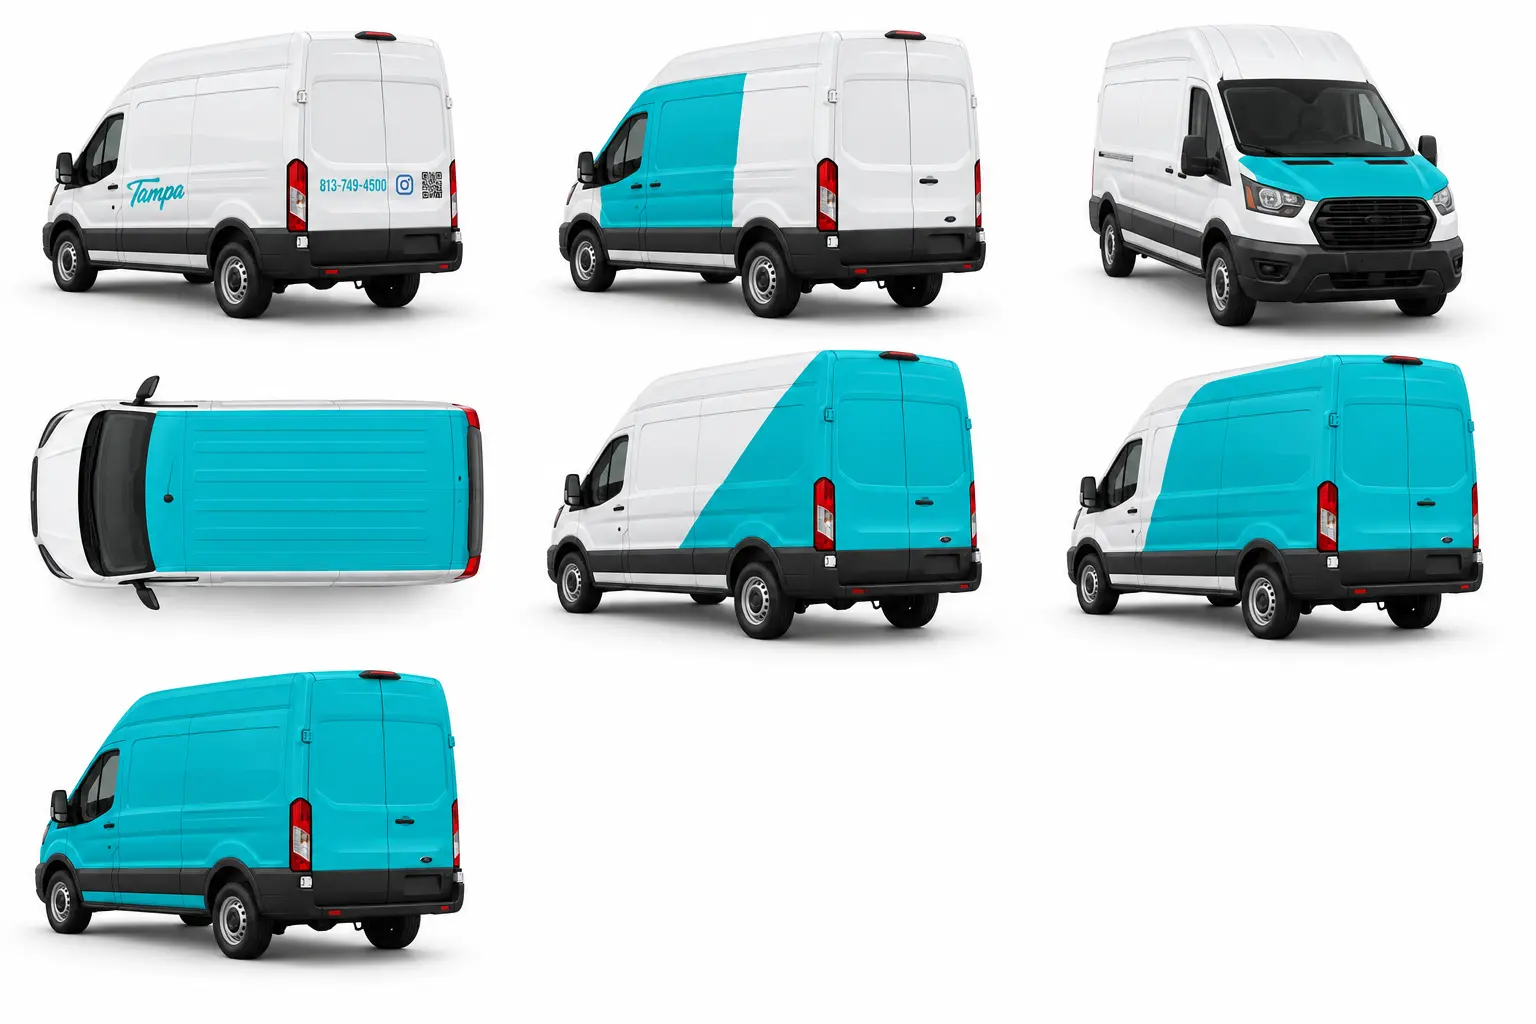
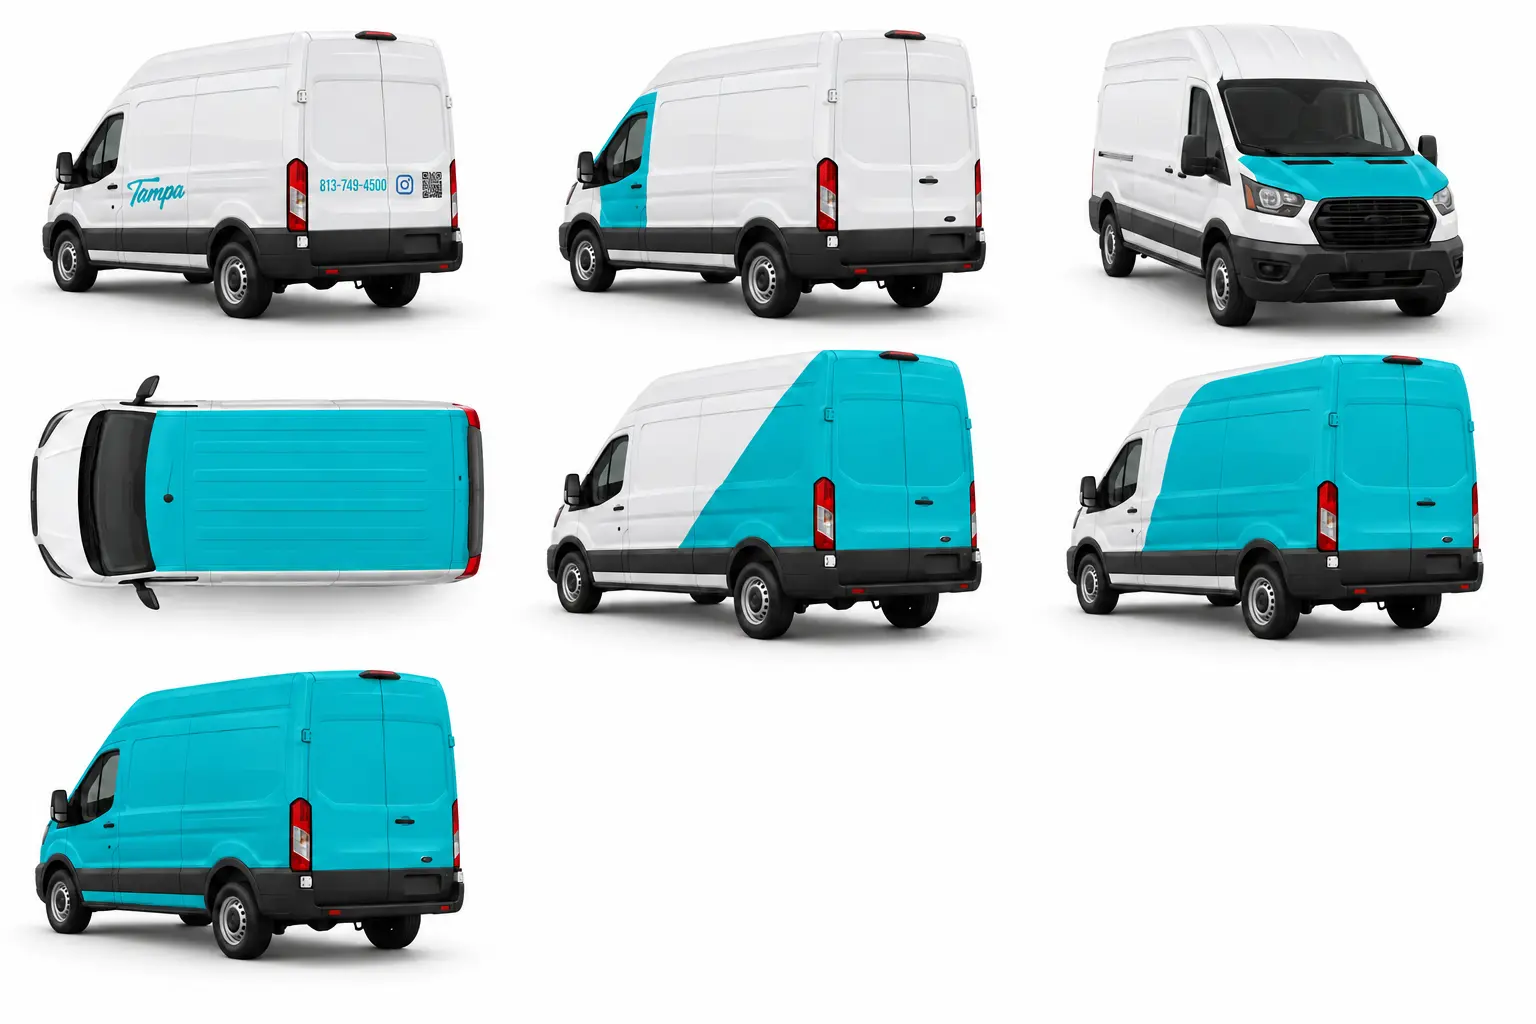
Refine van wrap coverage options

diff --git a/app/static/styles.css b/app/static/styles.css
@@ -84,6 +84,7 @@ dialog{border:0;border-radius:17px;padding:0;max-width:min(92vw,820px);width:680
 .coverage-config{margin-bottom:4px}
 .coverage-grid{display:grid;grid-template-columns:repeat(3,minmax(0,1fr));gap:10px}
 .coverage-card{position:relative;display:flex;flex-direction:column;gap:6px;min-height:166px;padding:13px;border:1px solid var(--line);border-radius:12px;background:#fff;cursor:pointer;transition:.16s ease}
+.coverage-card[hidden]{display:none}
 .coverage-card:hover{border-color:#9fc9c4;transform:translateY(-1px)}
 .coverage-card.selected{border:2px solid var(--accent);background:#effaf8;box-shadow:0 0 0 3px #16b2b418}
 .coverage-card input{position:absolute;opacity:0;pointer-events:none}
@@ -93,7 +94,7 @@ dialog{border:0;border-radius:17px;padding:0;max-width:min(92vw,820px);width:680
 .coverage-photo{display:block;width:100%;background-repeat:no-repeat;background-color:#fff}
 .coverage-photo-vehicle{aspect-ratio:3/2;background-image:url('/static/wraps/vehicle-coverage-blue.webp?v=20260918-3');background-size:300% 300%}
 .coverage-photo-sedan{aspect-ratio:3/2;background-image:url('/static/wraps/sedan-coverage-blue.webp?v=20260918-3');background-size:300% 300%}
-.coverage-photo-van{aspect-ratio:3/2;background-image:url('/static/wraps/van-coverage-blue.webp?v=20260918-3');background-size:300% 300%}
+.coverage-photo-van{aspect-ratio:3/2;background-image:url('/static/wraps/van-coverage-blue.webp?v=20260918-4');background-size:300% 300%}
 .coverage-photo-pickup{aspect-ratio:3/2;background-image:url('/static/wraps/pickup-coverage-blue.webp?v=20260918-3');background-size:300% 300%}
 .coverage-photo-trailer{aspect-ratio:1;background-image:url('/static/wraps/trailer-coverage-blue.webp?v=20260918-3');background-size:300% 200%}
 .coverage-card.selected .coverage-visual{background:white;color:var(--accent)}

diff --git a/app/static/app.js b/app/static/app.js
@@ -144,8 +144,17 @@ function updateCoverageVisuals(){
   const trailer=(product?.config.storefront_categories||[]).includes('Trailers / Food Trucks');
   const vehicleType=form.elements.vehicle_type?.value||'';
   all('.coverage-card',form).forEach(card=>{
-    $('.coverage-visual',card).innerHTML=coverageIcon($('input[name="coverage_option"]',card).value,trailer,vehicleType);
+    const option=$('input[name="coverage_option"]',card);
+    card.hidden=vehicleType==='cargo_van'&&option.value==='hood';
+    $('.coverage-visual',card).innerHTML=coverageIcon(option.value,trailer,vehicleType);
   });
+  const selected=form.querySelector('input[name="coverage_option"]:checked');
+  if(selected?.closest('.coverage-card').hidden){
+    selected.checked=false;
+    const fallback=all('input[name="coverage_option"]',form).find(option=>!option.closest('.coverage-card').hidden);
+    if(fallback)fallback.checked=true;
+  }
+  all('.coverage-card',form).forEach(card=>card.classList.toggle('selected',!!$('input[name="coverage_option"]',card).checked));
 }
 function coverageCustomizer(cfg){
   if(!cfg.coverage_options?.length)return '';

diff --git a/app/static/index.html b/app/static/index.html
@@ -8,8 +8,8 @@
   <title>Tampa Signs and Stickers | Custom prints, made yours.</title>
   <link rel="icon" type="image/png" href="/static/brand/favicon.png">
   <link rel="shortcut icon" type="image/png" href="/static/brand/favicon.png">
-  <link rel="stylesheet" href="/static/styles.css?v=20260918-3">
-  <script type="module" src="/static/app.js?v=20260918-3"></script>
+  <link rel="stylesheet" href="/static/styles.css?v=20260918-4">
+  <script type="module" src="/static/app.js?v=20260918-4"></script>
 </head>
 <body>
   <div id="app"><div class="initial-loading"><img class="loading-logo" src="/static/brand/tampa-black.png" alt="Tampa Signs and Stickers"><p>Opening Tampa Signs and Stickers...</p></div></div>

diff --git a/tests/test_partial_trailer_wraps.py b/tests/test_partial_trailer_wraps.py
@@ -99,6 +99,7 @@ def test_wrap_coverage_storefront_ui_is_present(env):
     assert "Window package" in text
     assert "vehicleType==='car'?'sedan'" in text
     assert "vehicleType==='cargo_van'?'van'" in text
+    assert "vehicleType==='cargo_van'&&option.value==='hood'" in text
     assert "multiple" in text
 
     css = client.get('/static/styles.css').text
